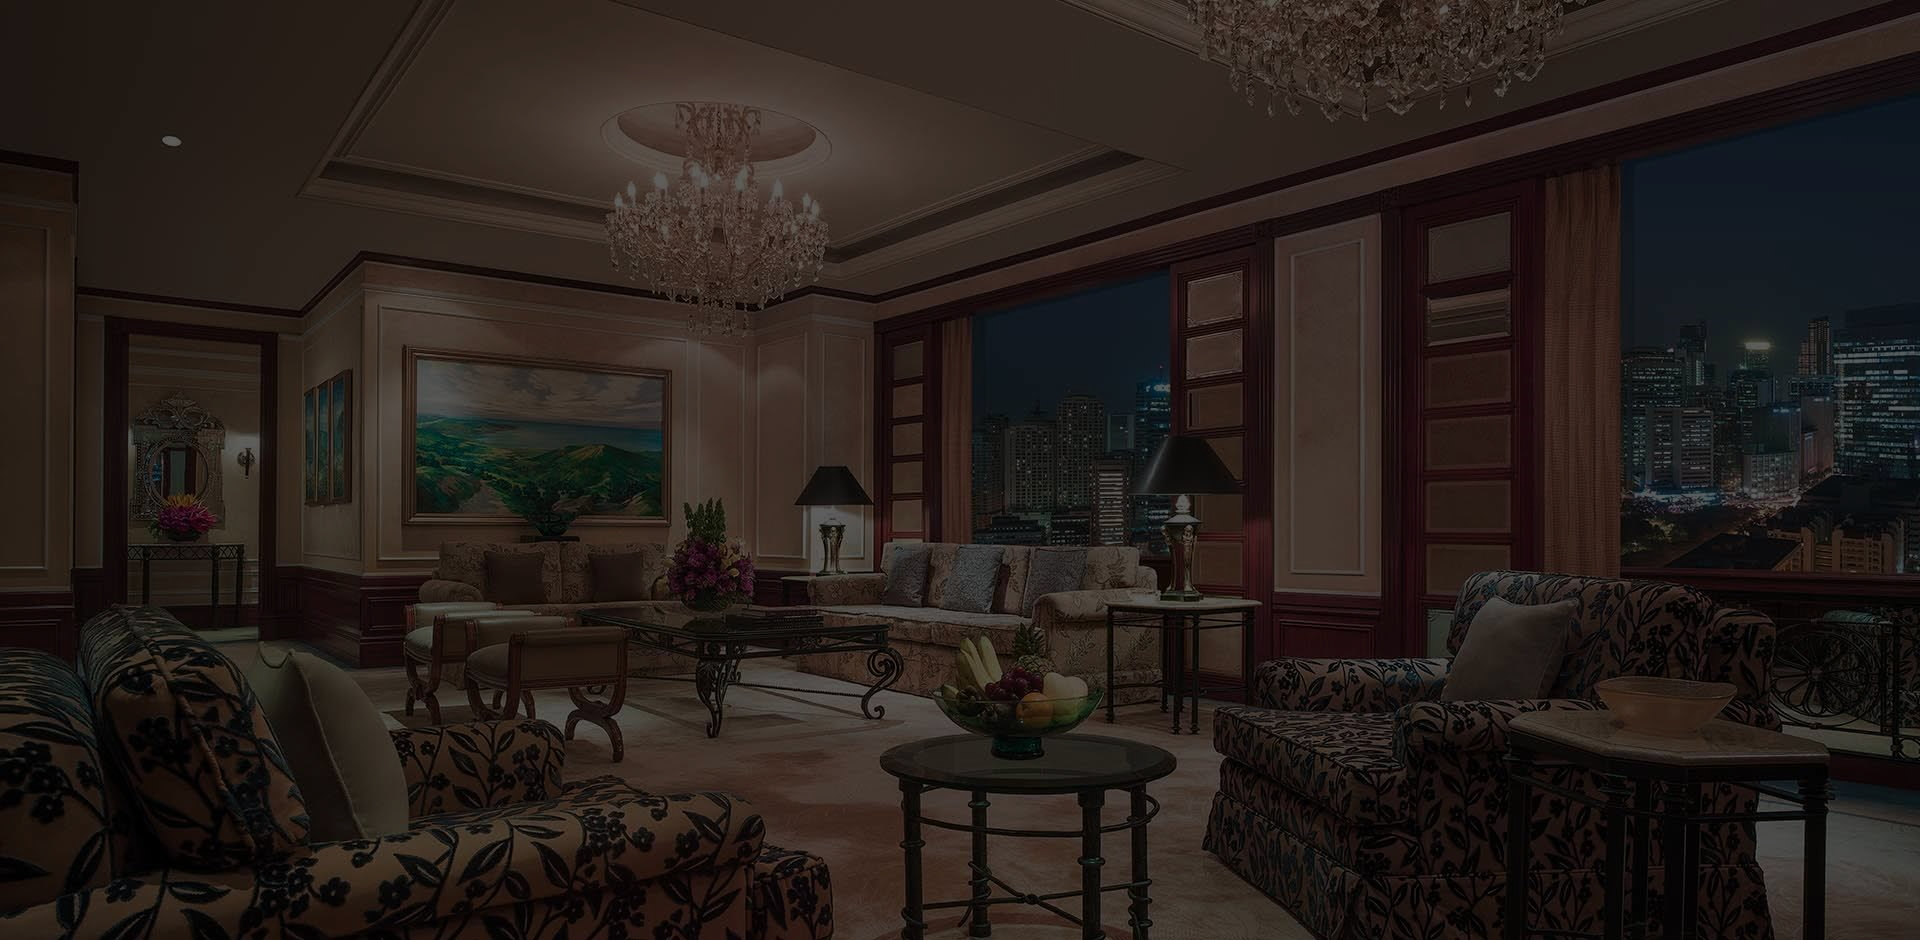
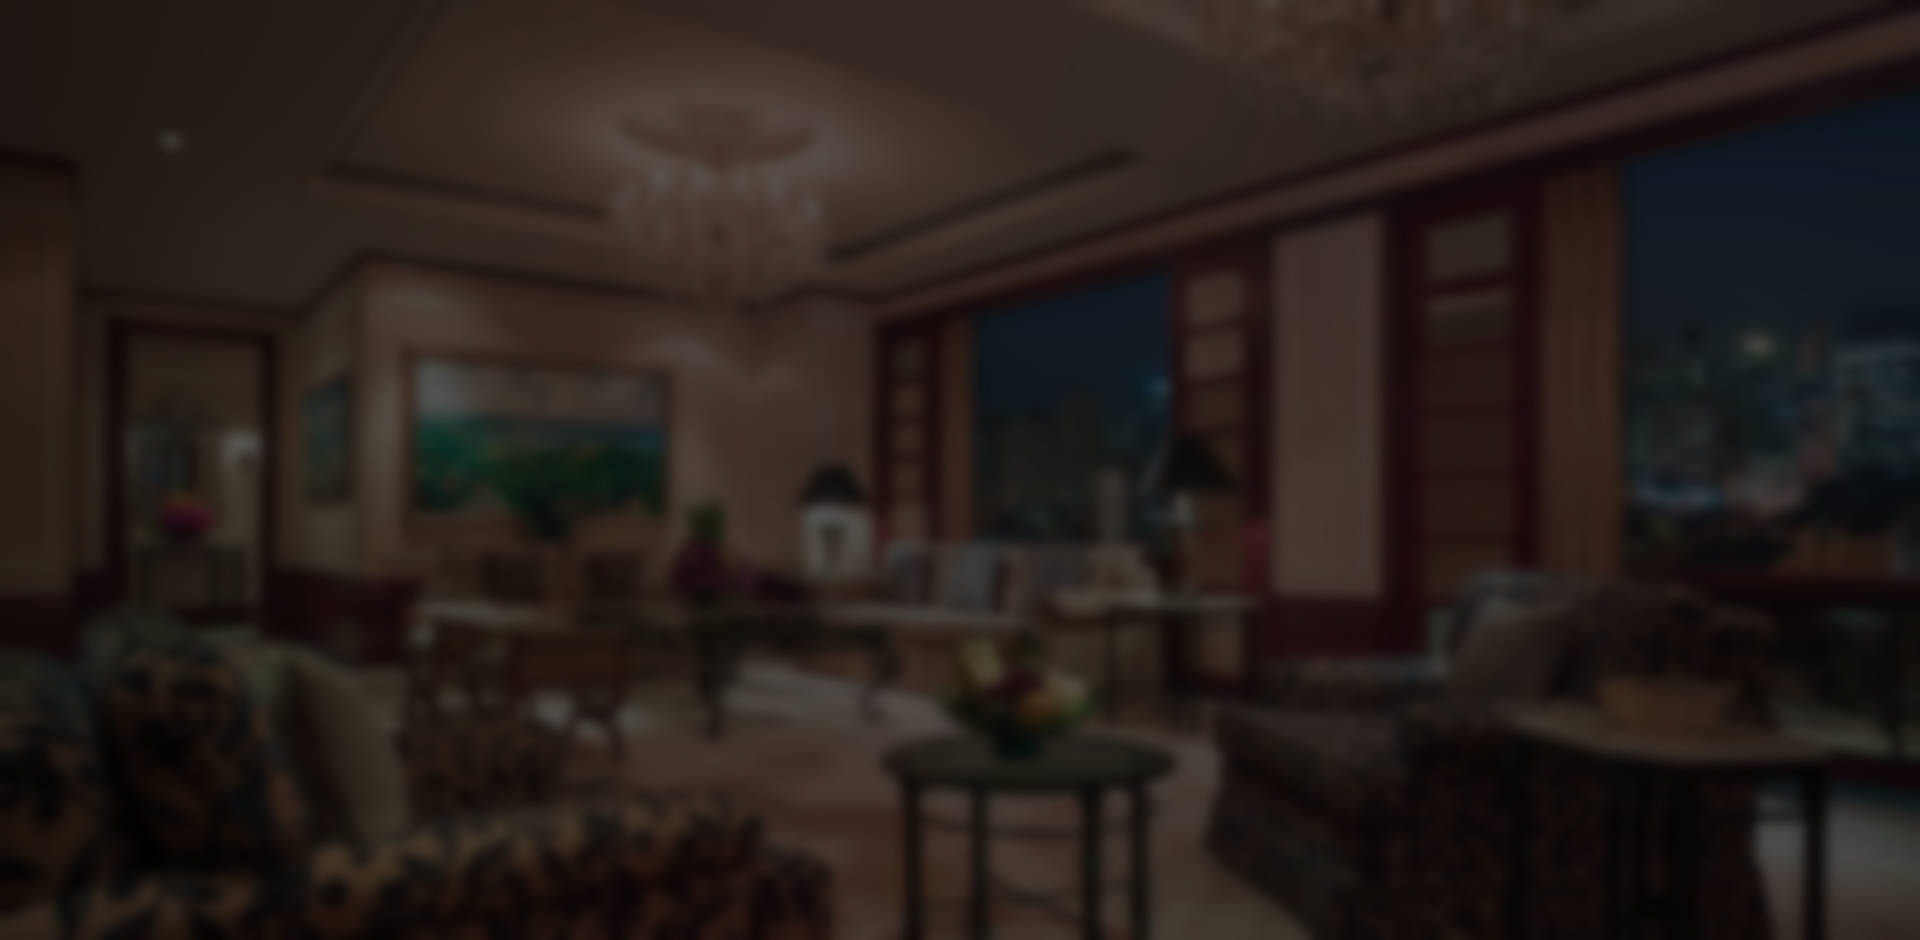
Add files via upload

diff --git a/OURPARTNERS.html b/OURPARTNERS.html
@@ -9,7 +9,8 @@
 </head>
 <style>
 		html, body {
-			max-width: 100%;
+			width: 100vw;
+			max-width: 100vw;
 			overflow-x: hidden;
 		}
 		*{
@@ -60,7 +61,7 @@
 			text-indent: 0px;
 			color: white;
 			font-weight: 500;
-			padding-right: 30vw;
+			padding-right: 40vw;
 			line-height: 25px;
 			padding-bottom: 10vh;
 			padding-left: 5vw;
@@ -78,21 +79,25 @@
 		.text{
 			padding-right: 20px;
 		}
-	
+		.txtpad{
+			align-content: center;
+			text-align: center;
+			padding-bottom: 2vh;
+			padding-left: 15vw;
+		}
 		.querybox{
-			width: 20vw; 
-			height: auto; 
+			max-width: 25vw; 
 			margin: 10vh; 
 			background-color: #FFA400;
-			padding: 15px;
+			padding: 35px;
 			box-shadow: 7px 10px 16px -2px rgba(0,0,0,0.44);
 		}
 		.querybox:hover{
-			background-color: #EC5050;
-			transition: 0.5s;
+			box-shadow: 7px 10px 16px -2px rgba(0,0,0,0.3);
+			transition: 0.2s;
 		}
 		.querybox:not(:hover){
-			background-color: #FFA400;
+			box-shadow: 7px 10px 16px -2px rgba(0,0,0,0.44);
 			transition: 0.5s;
 		}
 	
@@ -100,7 +105,7 @@
 		  background-color: #232528;
 		  border: none;
 		  color: white;
-		  padding: 15px 25px;
+		  padding: 15px 60px;
 		  text-align: center;
 		  text-decoration: none;
 		  display: inline-block;
@@ -108,10 +113,24 @@
 		  margin: 4px 2px;
 		  cursor: pointer;
 		}
+		.button:hover{
+			background-color: #464A50;
+			transition: 0.2s;
+		}
+		.button:not(:hover){
+			background-color: #232528;
+			transition: 0.2s;
+		}
 		.emailIn{
 			color: #232528;
-			
+			font-family: "Lucida Grande", "Lucida Sans Unicode", "Lucida Sans", "DejaVu Sans", Verdana, "sans-serif";
+			padding: 15px 60px;
+			margin: 10px;
 		}
+		.bgpanel{
+			width: 100vw;
+			margin: 0px;
+		;}
 	}
 </style>
 <body>
@@ -129,7 +148,7 @@
     <!-- <div class="bg1"></div> -->
 
 	<div class="banner">
-	    <center><img src="img/b180523005-banner-size.jpg" width="1920" height="auto" alt="" style="filter: brightness(35%); filter: blur(2px); width: 110%; height: 100vh;"> </center>
+	    <center><img src="img/b180523005-banner-size.jpg" width="1920" height="auto" alt="" style="filter: brightness(85%); width: 100%; height: 100vh;"> </center>
 		<div class="overimg">
 		<h3 class="title">Our Partners</h3>
 		<p class="txtoverimg"> 
@@ -137,9 +156,8 @@
 		</p>
 		</div>
 		</div>
+		<center>
 		<div class="txtpad">
-		
-		<section>
 			<center>
 			  <div class="partner">
 				  
@@ -198,18 +216,15 @@
 				  
 			  </div>
 			  </center>
-			  
-			  
-
-		</section>
-	</div>
+		
+	</div> </center>
 	
-	<div style="background-color: #232528; width: 100%">
+	<div style="background-color: #232528; width: 100%;">
 		<br />
 		
 		<br />
 		<center>
-		<table width="90%">
+		<table width="80%">
 		  <tbody>
 			<tr valign="center">
 			  <td width="60%">
@@ -224,13 +239,13 @@
 		  </tbody>
 		</table>
 		
-		<br /><br />
-		<table width="90%">
+		<br />
+		<table width="80%">
 		  <tbody>
 			<tr valign="center">
 			  <td><img src="img/3-Investors-HeroBanner-m.jpg" width="500" height="auto" alt=""/></td>
 			  <td>&nbsp;</td>
-			  <td width="60%">
+			  <td width="55%">
 				  <h4 style="padding-left: 0vw; color: ghostwhite; font-size: 40px;"> Shangri-La Asia Limited</h4>
 				  <p style="color: ghostwhite; line-height: 30px;">
 				  	We operate our businesses under our multi-brands encompassing key areas in hotels and resorts, commercial and residential properties, food and beverage, and recreational experiences; including but not limited to “Shangri-La”, “Kerry Hotels”, “JEN by Shangri-La”, “Traders”, “Rasa”, “Summer Palace”, “Shang Palace”, “CHI, The Spa at Shangri-La”. <br /> <br />
@@ -241,21 +256,19 @@
 			</tr>
 		  </tbody>
 		</table>
-			<br />
+			<br /><br />
 		</center>
 	</div>
 	
-	
+	<div class="bgpanel">
 	<center>
-	<div style="" class="querybox">
-		
+	<div class="querybox">
 		<h4 style="padding-left: 0vw; color: #232528; font-size: 40eh; line-height: 28px;"> Would You Like to Become a Partner or an Investor?</h4>
-		
 			<input type="email" class="emailIn" placeholder="YourEmail@email.com">
 			<br/>
 			<input type="submit" class="button">
-		
 	</div>
 	</center>
+	</div>
 </body>
 </html>

diff --git a/EVENTS.html b/EVENTS.html
@@ -1,0 +1,114 @@
+<!DOCTYPE html>
+<html>
+<head>
+	<meta charset="utf-8">
+	<meta name="viewport" content="width=device-width, initial-scale=1.0">
+	<title>Events</title>
+	<link rel="stylesheet" type="text/css" href="hotelstyle.css">
+	<link rel="icon" type="image" href="img/shangri-la.png" >
+</head>
+<style>
+		*{
+		margin: 0;
+		padding: 0;
+		}
+		html, body {
+			max-width: 100%;
+			overflow-x: hidden;
+		}
+		p{
+		text-indent: 50px;
+		text-align: justify;
+		text-justify: inter-word;
+		font-family: verdana;
+		margin-bottom: 15px;
+		}
+		.bg1{
+		background-color: black;
+		/*background-image: linear-gradient(to right, black,  rgba(0,0,0,0.5));*/
+		height: 94vh;
+		width: 100%;
+		padding-bottom:10px;
+		overflow-y: hidden;
+		}
+		.home{
+		background: linear-gradient(to right, #FFA400, #dab273);
+		-webkit-background-clip: text;
+		-webkit-text-fill-color:transparent;
+		font-weight: bold;
+		}
+		.bodytext{
+		text-align: left; 
+		padding: 20px;
+		font-family: Arial;
+		font-size: 18px;
+		}
+		.title{
+			font-family: Cambria, "Hoefler Text", "Liberation Serif", Times, "Times New Roman", "serif";
+			font-size: 72px;
+			color: ghostwhite;
+			text-shadow: -5px 2px 6px rgba(0,0,0,0.3);
+			padding-left: 4.5vw;
+		}
+		.overimg{
+			position: absolute;
+			bottom: 8px;
+			left: 16px;
+		}
+		.txtoverimg{
+			text-indent: 0px;
+			color: white;
+			font-weight: 500;
+			padding-right: 40vw;
+			line-height: 25px;
+			padding-bottom: 10vh;
+			padding-left: 5vw;
+			text-shadow: -5px 2px 6px rgba(0,0,0,0.3);
+		}
+		.banner{
+			height: 90vh;
+			box-sizing: border-box;
+		}
+		h4{
+			text-align: left;
+			font-family: Baskerville, "Palatino Linotype", Palatino, "Century Schoolbook L", "Times New Roman", "serif";
+			font-weight: 1200;
+		}
+		.text{
+			padding-right: 20px;
+		}
+</style>
+<body>
+    <div class="nav1">
+    <a href="MAIN.html">Home</a>
+    <a href="#">About Us</a>
+    <a href="#">Take a Tour</a>
+    <a href="EVENTS.html" class="active">Services Offered</a>
+    <a href="#">Reservation</a>
+    <a href="#">Become a Member</a>
+    <a href="#">Careers</a>
+    <a href="OURPARTNERS.html">Our Partners</a>
+
+	</div>
+    <!-- <div class="bg1"></div> -->
+
+	<div class="banner">
+   
+      <section>
+	  <img src="img/b180523002-banner-size2.jpg" width="1920" height="940" alt="" style="filter: brightness(75%); width: 110%; height: 100vh;" />
+<div class="overimg">	  
+      <h3 class="title">Events</h3>
+	  <p class="txtoverimg"> Shangri-La, on top of providing room service for guests, also provides
+		  places for meeting with colleagues, organizations and business partner
+		  s. See the rooms below to begin booking for your groups.
+	  </p>
+	  </div>
+	
+      </section>
+	</div>
+	
+	<div class="txtpad">
+		 
+	</div>
+</body>
+</html>
